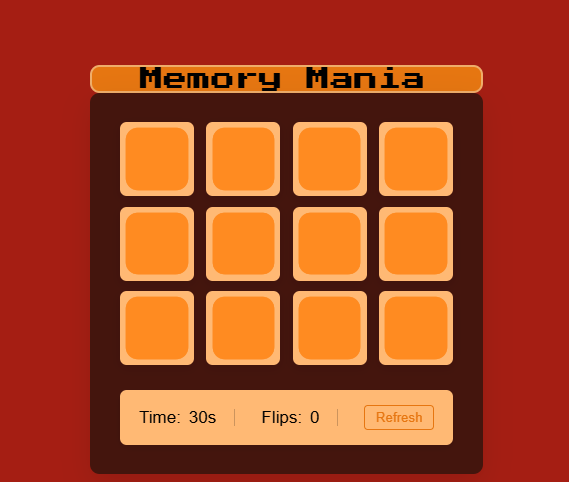
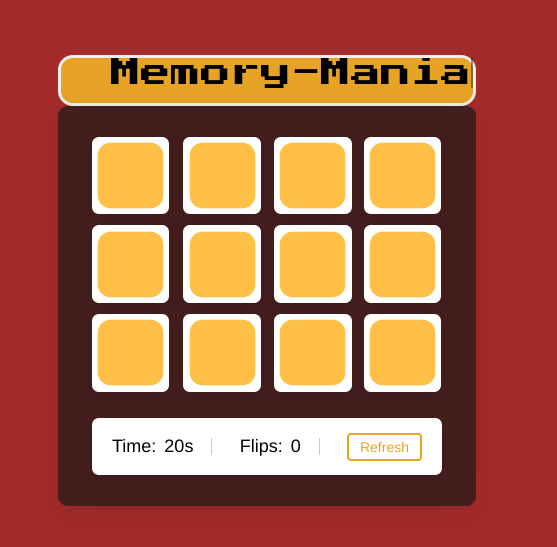
adding new image

diff --git a/index.html b/index.html
@@ -2,7 +2,7 @@
 <html lang="en" dir="ltr">
   <head>
     <meta charset="utf-8" />
-    <title>MemoryGame-V3.0.3</title>
+    <title>MemoryGame-V5.0</title>
     <link rel="icon" type="image/png" href="./images/logo-2.png" />
 
     <link rel="stylesheet" href="style.css" />
@@ -15,7 +15,7 @@
   <body>
     <div class="container">
       <div class="heading">
-        <h1 class="press-start-2p-regular cursor typewriter-animation">Memory-Mania </h1>
+        <h1 class="press-start-2p-regular cursor typewriter-animation">Memory-Mania</h1>
       </div>
 
       <div class="wrapper">
